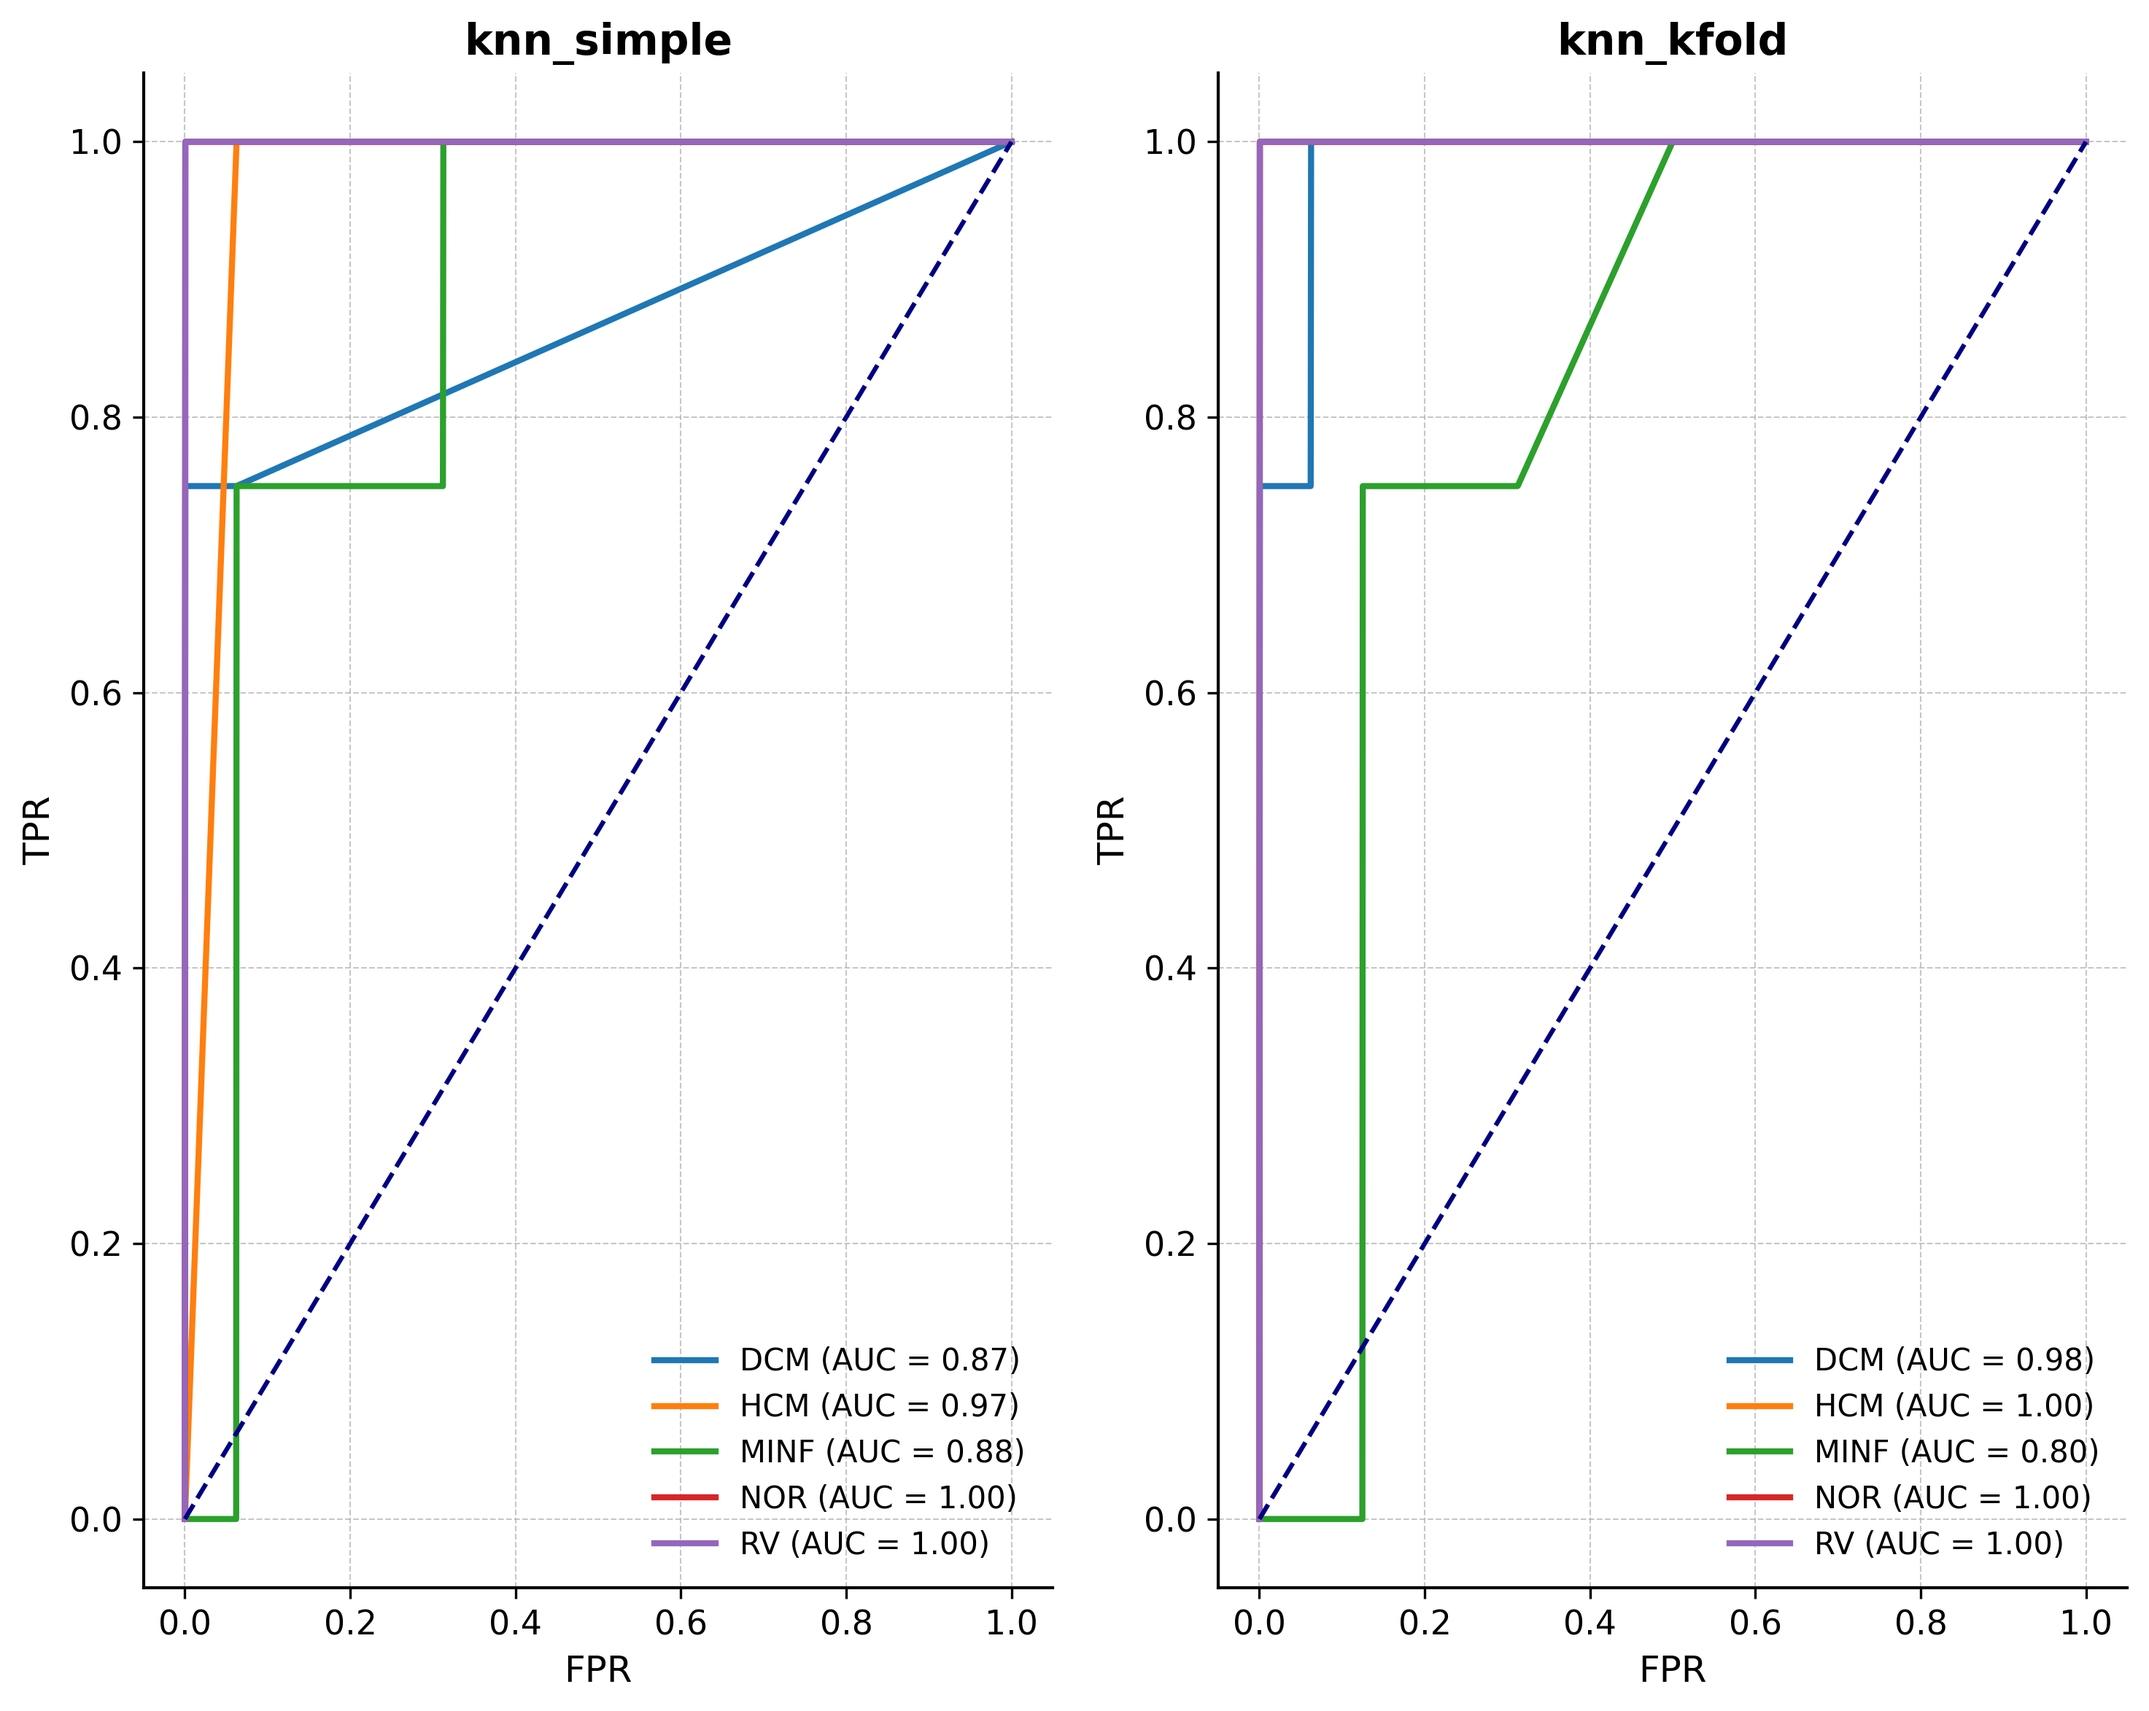
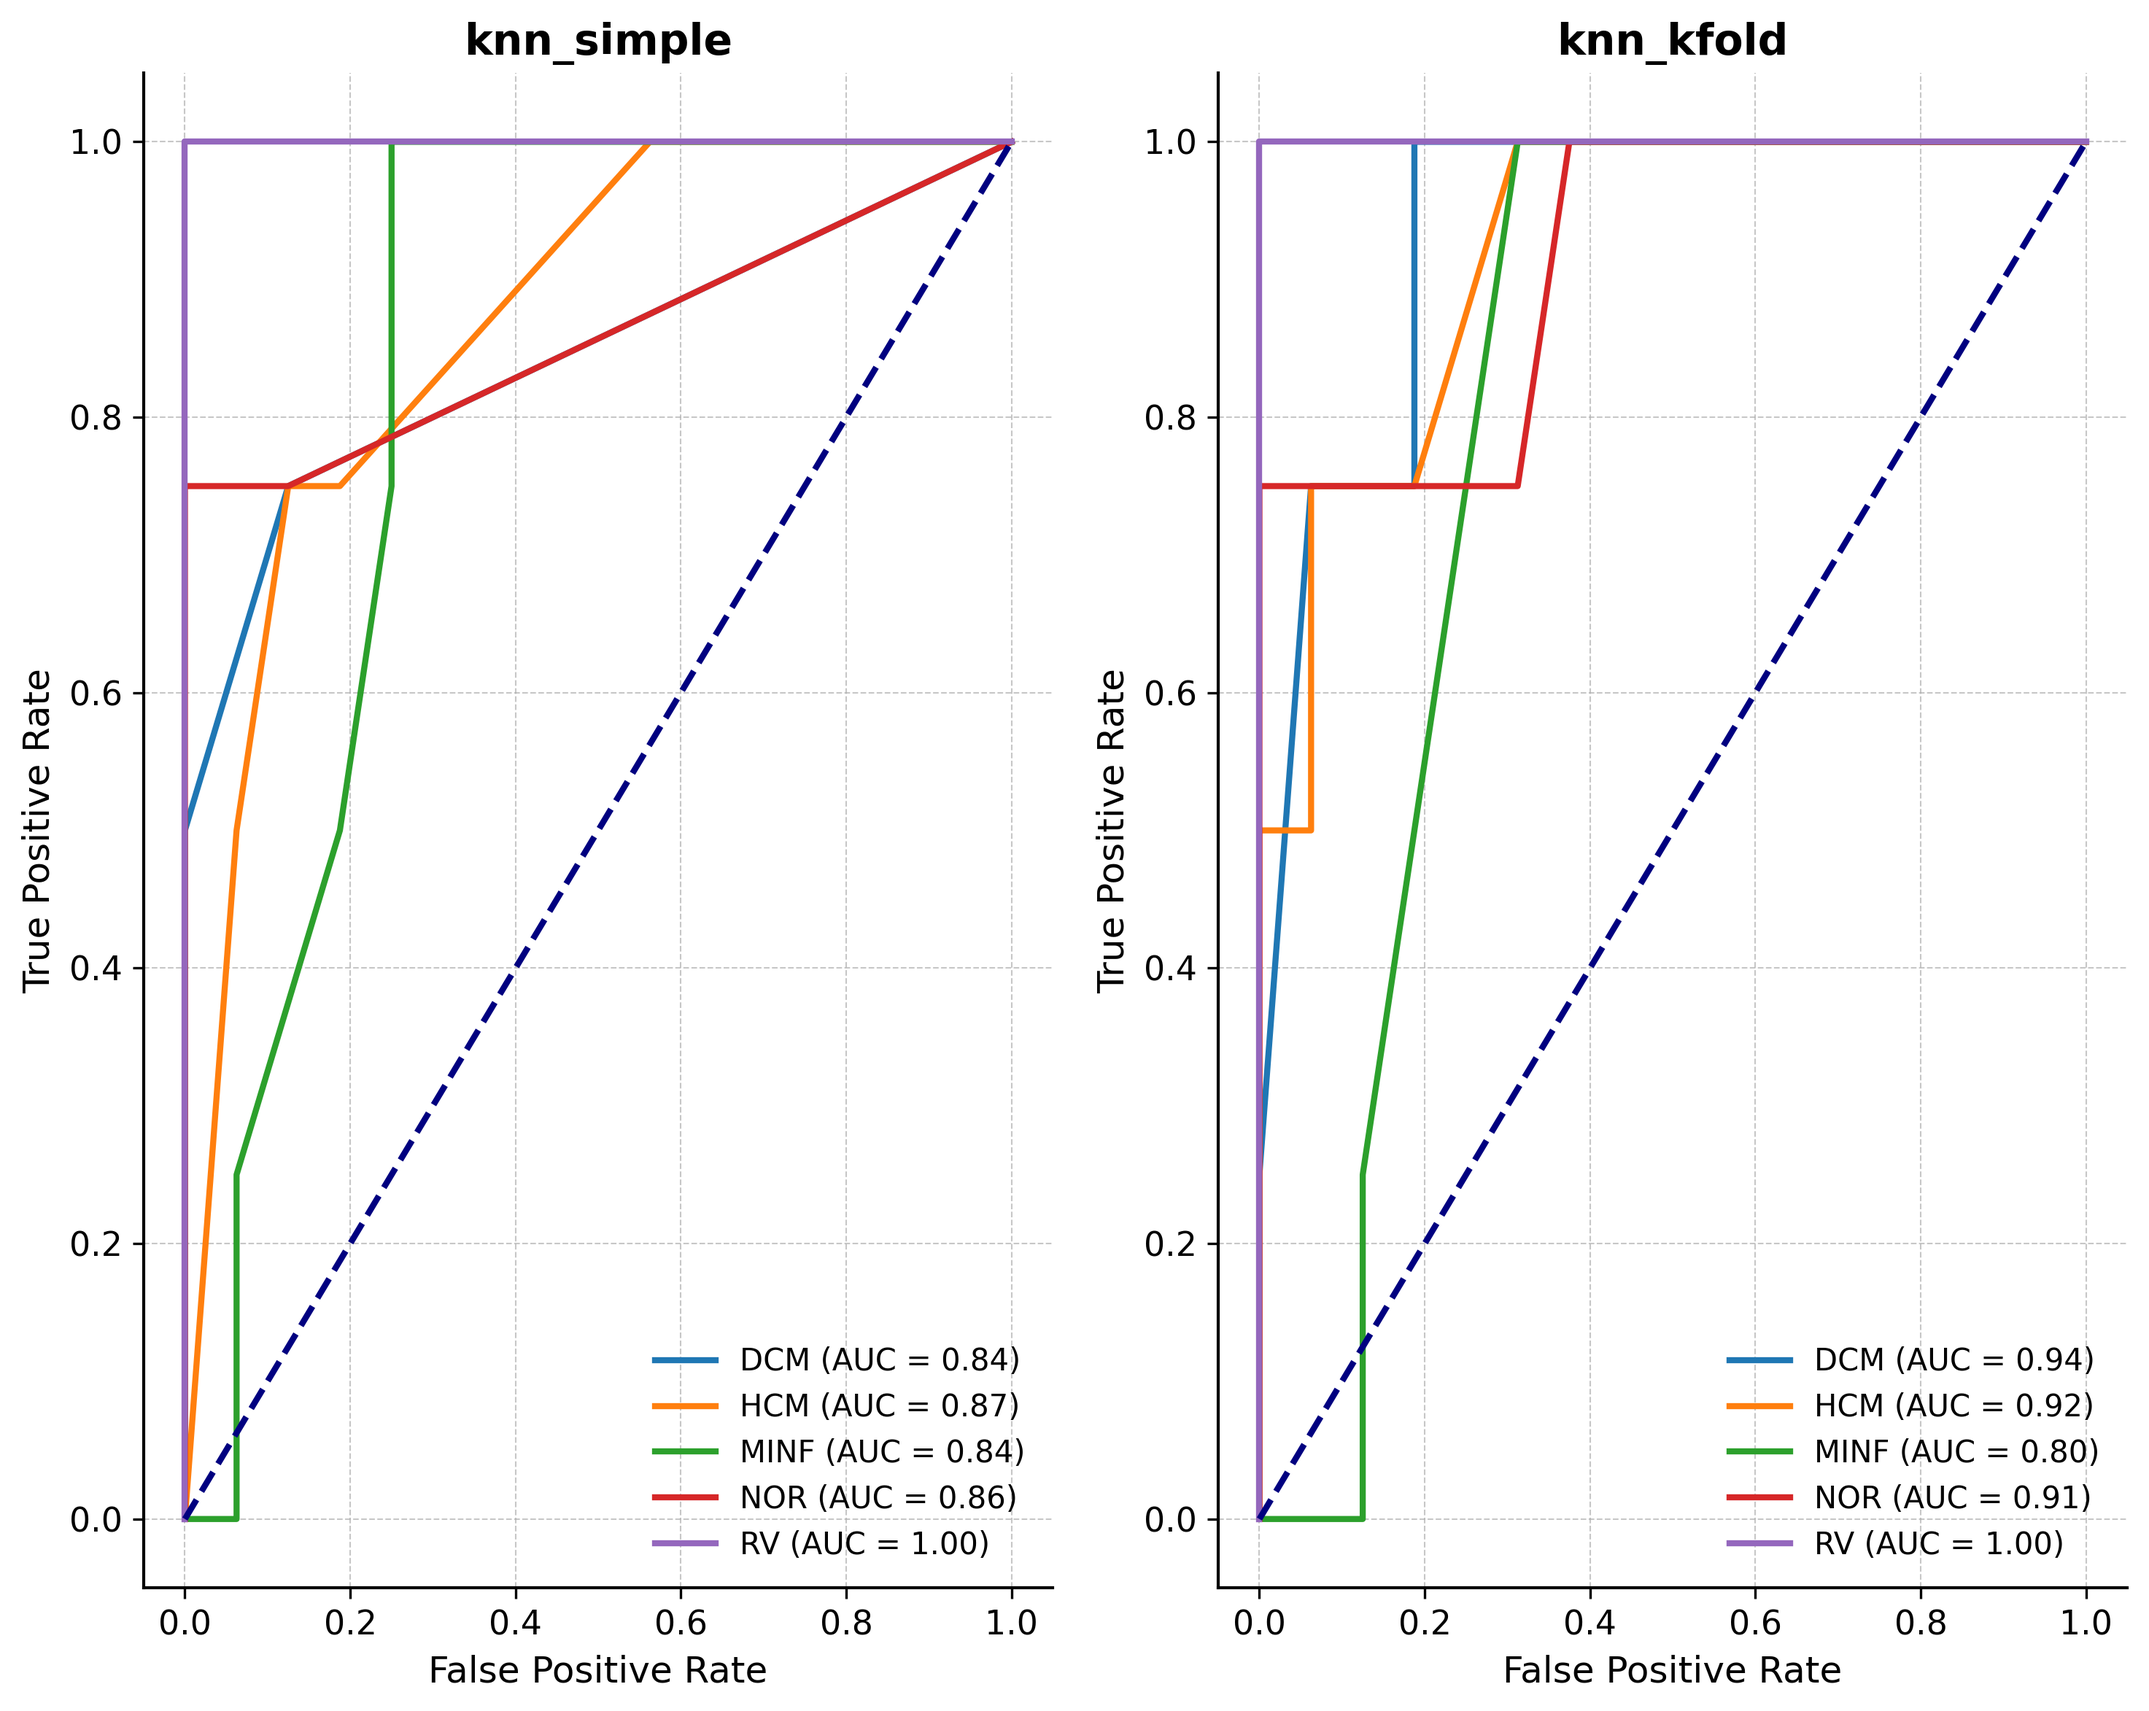
fixed ROC-AUC curve

diff --git a/code/metrics/metrics.py b/code/metrics/metrics.py
@@ -18,7 +18,6 @@ from sklearn.metrics import (
     roc_curve,
 )
 from sklearn.preprocessing import label_binarize
-from sklearn.utils import resample
 
 
 def evaluate_model(
@@ -194,55 +193,45 @@ if __name__ == "__main__":
             y_proba = metrics["y_proba"]
             n_classes = y_test_bin.shape[1]
 
-            # Set bootstrap parameters for ROC variability
-            n_bootstrap = 100
-            mean_fpr = np.linspace(0, 1, 2000)
+            # Store the best FPR-TPR pair and AUC for each class
+            best_fpr_tpr = {}
+            auc_values = {}
 
-            # Compute ROC curve with bootstrap for each class
+            # Compute ROC curve for each class
             for j in range(n_classes):
-                # Collect true positive rates across bootstraps
-                tprs = []
+                # Collect true positive rates, false positive rates and thresholds
+                fpr, tpr, thresholds = roc_curve(
+                    y_test_bin[:, j], y_proba[:, j]
+                )
+                auc_value = auc(fpr, tpr)
+                auc_values[j] = auc_value
 
-                # Perform bootstrap sampling
-                for _ in range(n_bootstrap):
-                    # Resample test indices with stratification
-                    indices = resample(
-                        np.arange(len(y_test_bin)),
-                        replace=True,
-                        stratify=y_test_bin[:, j],
-                        random_state=42,
-                    )
+                # Find the best threshold Younden's J Statistic
+                youden_j = tpr - fpr
+                best_idx = np.argmax(youden_j)
+                best_fpr_tpr[j] = (
+                    fpr[best_idx],
+                    tpr[best_idx],
+                    thresholds[best_idx],
+                )
 
-                    # Compute ROC for resampled data
-                    fpr, tpr, _ = roc_curve(
-                        y_test_bin[indices, j], y_proba[indices, j]
-                    )
+                print(
+                    f"Class {le.classes_[j]}: Best FPR={fpr[best_idx]:.2f}, TPR={tpr[best_idx]:.2f}, Threshold={thresholds[best_idx]:.2f}, AUC={auc_value:.2f}"
+                )
 
-                    # Interpolate TPR at common FPR grid
-                    interp_tpr = np.interp(mean_fpr, fpr, tpr)
-                    interp_tpr[0] = 0.0
-                    tprs.append(interp_tpr)
-
-                # Calculate mean ROC and AUC
-                tprs = np.array(tprs)
-                mean_tpr = np.mean(tprs, axis=0)
-                mean_tpr[-1] = 1.0
-                mean_auc = auc(mean_fpr, mean_tpr)
-
-                # Plot mean ROC curve
+                # Plot ROC curve
                 axs_auc[i].plot(
-                    mean_fpr,
-                    mean_tpr,
-                    label=f"{le.classes_[j]} (AUC = {mean_auc:.2f})",
+                    fpr,
+                    tpr,
+                    label=f"{le.classes_[j]} (AUC = {auc_value:.2f})",
+                    lw=2,
                 )
 
             # Add diagonal and labels to ROC plot
-            axs_auc[i].plot(
-                [0, 1], [0, 1], color="navy", lw=1.5, linestyle="--"
-            )
+            axs_auc[i].plot([0, 1], [0, 1], color="navy", lw=2, linestyle="--")
             axs_auc[i].set_title(model_name)
-            axs_auc[i].set_xlabel("FPR")
-            axs_auc[i].set_ylabel("TPR")
+            axs_auc[i].set_xlabel("False Positive Rate")
+            axs_auc[i].set_ylabel("True Positive Rate")
             axs_auc[i].legend(loc="lower right")
 
         # Save figures
